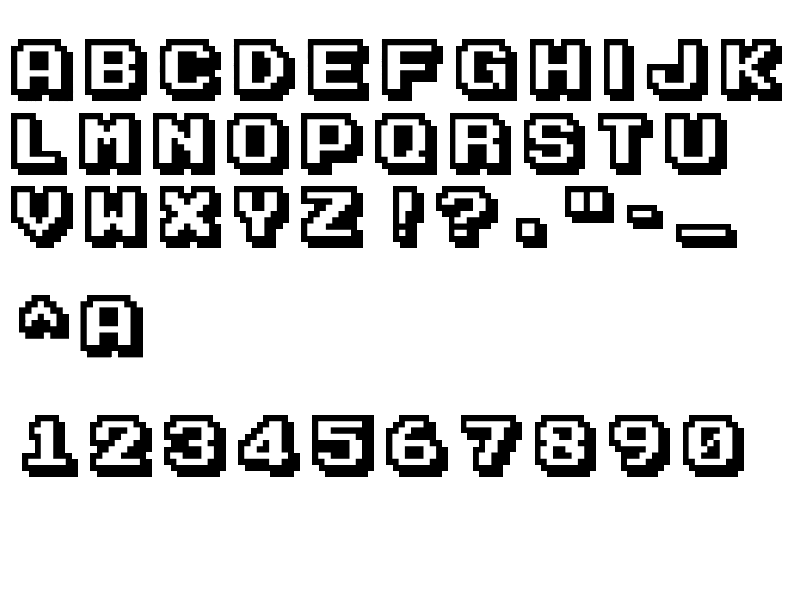
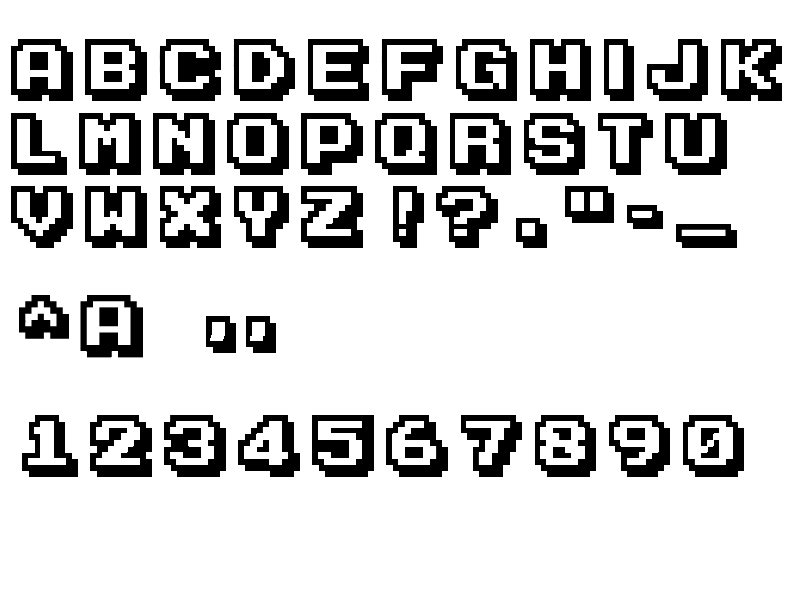
gnite

diff --git a/AShamanJourney/AShamanJourney/Game/HUD.cs b/AShamanJourney/AShamanJourney/Game/HUD.cs
@@ -32,11 +32,17 @@ namespace AShamanJourney
         {
             var fontSize = 0.4f;
             hp = new TextObject(fontSize, Color.IndianRed);
+            hp.Order = 10;
             xp = new TextObject(fontSize, Color.AliceBlue);
+            xp.Order = 10;
             lvl = new TextObject(fontSize, Color.ForestGreen);
+            lvl.Order = 10;
             timer = new TextObject(fontSize, Color.BurlyWood);
+            timer.Order = 10;
             hpNumber = new TextObject(fontSize, Color.White);
+            hpNumber.Order = 10;
             xpNumber = new TextObject(fontSize, Color.White);
+            xpNumber.Order = 10;
 
             Padding = 20;
             InnerPadding = Padding / 2;
@@ -51,8 +57,8 @@ namespace AShamanJourney
             hp.Y = Padding;
             hp.IgnoreCamera = true;
             hp.Text = "HP";
-            var hpMeasure = hp.Measure();
 
+            var hpMeasure = hp.Measure();
             Engine.SpawnObject("xp", xp);
             xp.X = hp.X;
             xp.Y = hp.Y + hpMeasure.Y + InnerPadding;
@@ -62,15 +68,23 @@ namespace AShamanJourney
 
             hpBar = new RectangleObject(150, (int)hpMeasure.Y)
             {
-                Fill = true
+                Fill = true, 
+                Order = 10
             };
             xpBar = new RectangleObject(150, (int)xpMeasure.Y)
             {
-                Fill = true
+                Fill = true,
+                Order = 10
             };
 
-            hpBarBorder = new RectangleObject(150, (int)hpMeasure.Y);
-            xpBarBorder = new RectangleObject(150, (int)xpMeasure.Y);
+            hpBarBorder = new RectangleObject(150, (int)hpMeasure.Y)
+            {
+                Order = 10
+            };
+            xpBarBorder = new RectangleObject(150, (int)xpMeasure.Y)
+            {
+                Order = 10
+            };
 
             Engine.SpawnObject("lvl", lvl);
             lvl.X = xp.X;
@@ -101,42 +115,42 @@ namespace AShamanJourney
             hpBarBorder.Y = hp.Y;
             hpBarBorder.Color = Color.Black;
             hpBarBorder.IgnoreCamera = true;
-            var hpNumberMeasure = hp.Measure();
 
+            // TODO: FIX DOESN'T SPAWN
             Engine.SpawnObject("hpNumber", hpNumber);
-            hpNumber.X = hpBarBorder.X + (hpBarBorder.Width / 2) - (hpNumberMeasure.X / 2);
-            hpNumber.Y = hpBarBorder.Y + (hpBarBorder.Height / 2) - (hpNumberMeasure.Y / 2);
             hpNumber.IgnoreCamera = true;
-            hpNumber.Text = "0/0";
 
             Engine.SpawnObject("xpBarBorder", xpBarBorder);
             xpBarBorder.X = xp.X + xpMeasure.X + InnerPadding;
             xpBarBorder.Y = xp.Y;
             xpBarBorder.Color = Color.Black;
             xpBarBorder.IgnoreCamera = true;
-            var xpNumberMeasure = xp.Measure();
 
             Engine.SpawnObject("xpNumber", xpNumber);
-            xpNumber.X = xpBarBorder.X + (xpBarBorder.Width / 2) - (xpNumberMeasure.X / 2);
-            xpNumber.Y = xpBarBorder.Y + (xpBarBorder.Height / 2) - (xpNumberMeasure.Y / 2);
             xpNumber.IgnoreCamera = true;
-            xpNumber.Text = "0/0";
-
         }
 
-        public void UpdateHP(Player player)
+        public void UpdateHp(Player player)
         {
             hpBar.Scale = new Vector2(player.Stats.Hp / player.Stats.MaxHp, 1f);
+            hpNumber.Text = $"{player.Stats.Hp} - {player.Stats.MaxHp}";
+            var hpNumberMeasure = hpNumber.Measure();
+            hpNumber.X = hpBarBorder.X + (hpBarBorder.Width / 2) - (hpNumberMeasure.X / 2);
+            hpNumber.Y = hpBarBorder.Y + (hpBarBorder.Height / 2) - (hpNumberMeasure.Y / 2);
         }
 
-        public void UpdateXP(Player player)
+        public void UpdateXp(Player player)
         {
             xpBar.Scale = new Vector2(player.Stats.Xp / player.Stats.XpForNextLevel, 1f);
+            xpNumber.Text = $"{player.Stats.Xp}-{player.Stats.XpForNextLevel}";
+            var xpNumberMeasure = xp.Measure();
+            xpNumber.X = xpBarBorder.X + (xpBarBorder.Width / 2) - (xpNumberMeasure.X / 2);
+            xpNumber.Y = xpBarBorder.Y + (xpBarBorder.Height / 2) - (xpNumberMeasure.Y / 2);
             lvl.Text = $"Level {player.Stats.Level}";
         }
         public void UpdateTimer()
         {
-            timer.Text = $"Timer {GameManager.LocalTimer} / {GameManager.GlobalTimer}";
+            timer.Text = $"Timer {(int) GameManager.LocalTimer} - {(int)GameManager.GlobalTimer}";
         }
     }
 }

diff --git a/AShamanJourney/AShamanJourney/Utils/World.cs b/AShamanJourney/AShamanJourney/Utils/World.cs
@@ -50,22 +50,23 @@ namespace AShamanJourney
 
             // details
             objectsSpawnRate.Add(new Dictionary<GameObject, float>());
-            var tree0Asset = (SpriteAsset)Engine.GetAsset("tree0");
-            var tree0 = new SpriteObject(tree0Asset.Width / 2, tree0Asset.Height / 2);
-            tree0.CurrentSprite = tree0Asset;
-            tree0.Order = 2;
-            objectsSpawnRate[0][tree0] = 1f;
+            //var tree0AssetTop = (SpriteAsset)Engine.GetAsset("tree0_top");
+            //var tree0AssetBottom = (SpriteAsset)Engine.GetAsset("tree0_bottom");
+            //var tree0 = new TruncatedObject("tree0", tree0AssetBottom, tree0AssetTop);
+            //objectsSpawnRate[0][tree0] = 1f;
 
             var swamp0Asset = (SpriteAsset)Engine.GetAsset("swamp0");
             var swamp0 = new SpriteObject(swamp0Asset.Width, swamp0Asset.Height);
+            swamp0.Name = "swamp0";
             swamp0.CurrentSprite = swamp0Asset;
             swamp0.Order = 2;
-            objectsSpawnRate[0][swamp0] = 0.33f;
+            objectsSpawnRate[0][swamp0] = 0.2f;
 
             // backgrounds
             objectsSpawnRate.Add(new Dictionary<GameObject, float>());
             var background0Asset = (SpriteAsset)Engine.GetAsset("background0");
             var background0 = new SpriteObject(background0Asset.Width, background0Asset.Height);
+            background0.Name = "background0";
             background0.CurrentSprite = background0Asset;
             background0.Order = 0;
             objectsSpawnRate[1][background0] = 1f;
@@ -74,15 +75,16 @@ namespace AShamanJourney
             objectsSpawnRate.Add(new Dictionary<GameObject, float>());
             var bearAsset = (SpriteAsset)Engine.GetAsset("bear");
             var bear = new SpriteObject(bearAsset.Width, bearAsset.Height);
+            bear.Name = "bear0";
             bear.CurrentSprite = bearAsset;
             bear.Order = 6;
             objectsSpawnRate[2][bear] = 1f;
 
             var count = 0;
-            foreach (var list in objectsSpawnRate)
+            foreach (var dict in objectsSpawnRate)
             {
                 rndRanges.Add(0);
-                foreach (var pair in list)
+                foreach (var pair in dict)
                 {
                     rndRanges[count] += pair.Value;
                 }

diff --git a/AShamanJourney/AShamanJourney/Utils/TruncatedObject.cs b/AShamanJourney/AShamanJourney/Utils/TruncatedObject.cs
@@ -1,0 +1,46 @@
+using Aiv.Engine;
+
+namespace AShamanJourney
+{
+    public class TruncatedObject : SpriteObject
+    {
+        private SpriteObject topSprite;
+        private SpriteObject bottomSprite;
+        
+        public TruncatedObject(string name, SpriteAsset bottomSpriteAsset, SpriteAsset topSpriteAsset) : base(bottomSpriteAsset.Width, bottomSpriteAsset.Height)
+        {
+            topSprite = new SpriteObject(topSpriteAsset.Width, topSpriteAsset.Height);
+            topSprite.CurrentSprite = topSpriteAsset;
+            bottomSprite = new SpriteObject(bottomSpriteAsset.Width, bottomSpriteAsset.Height);
+            bottomSprite.CurrentSprite = bottomSpriteAsset;
+            Name = name;
+        }
+
+        // Add others override if needed
+        public override float X
+        {
+            get { return topSprite.X; }
+            set
+            {
+                topSprite.X = value;
+                bottomSprite.X = value;
+            }
+        }
+        public override float Y
+        {
+            get { return topSprite.Y; }
+            set
+            {
+                topSprite.Y = value;
+                bottomSprite.Y = value + topSprite.Height;
+            }
+        }
+
+        public override void Start()
+        {
+            base.Start();
+            Engine.SpawnObject($"{Name}_topSprite", topSprite);
+            Engine.SpawnObject($"{Name}_bottomSprite", bottomSprite);
+        }
+    }
+}

diff --git a/AShamanJourney/AShamanJourney/Game/GameManager.cs b/AShamanJourney/AShamanJourney/Game/GameManager.cs
@@ -71,6 +71,7 @@ namespace AShamanJourney
                     //{'/', Tuple.Create(new Vector2(238f, 93f), new Vector2(34f, 31f))},
                     //{':', Tuple.Create(new Vector2(296f, 93f), new Vector2(13f, 31f))},
                     {'.', Tuple.Create(new Vector2(515f, 186f), new Vector2(33f, 63f))},
+                    {',', Tuple.Create(new Vector2(206f, 290f), new Vector2(30f, 63f))},
                     //{',', Tuple.Create(new Vector2(272f, 93f), new Vector2(13f, 31f))},
                     {'"', Tuple.Create(new Vector2(564f, 186f), new Vector2(51f, 63f))},
                     //{'\'', Tuple.Create(new Vector2(285f, 93f), new Vector2(13f, 31f))}
@@ -91,7 +92,9 @@ namespace AShamanJourney
             engine.LoadAsset("player", new SpriteAsset("player.png"));
             engine.LoadAsset("background0", new SpriteAsset("background0.png"));
             engine.LoadAsset("swamp0", new SpriteAsset("swamp0.png"));
-            engine.LoadAsset("tree0", new SpriteAsset("tree0.png"));
+            var tree = new SpriteAsset("tree0.png");
+            engine.LoadAsset("tree0_top", new SpriteAsset("tree0.png", 0, 0, tree.Width / 2, tree.Height / 2));
+            engine.LoadAsset("tree0_bottom", new SpriteAsset("tree0.png", tree.Width / 2, tree.Height / 2, tree.Width, tree.Height));
             //engine.LoadAsset("backgroundshadow0", new SpriteAsset("background_shadow.png"));
         }
 

diff --git a/AShamanJourney/AShamanJourney/Character/Player.cs b/AShamanJourney/AShamanJourney/Character/Player.cs
@@ -33,8 +33,11 @@ namespace AShamanJourney
             LoadAnimations();
 
             var hud = (Hud) Engine.Objects["hud"];
-            OnHpChanged += sender => hud.UpdateHP((Player) sender);
-            OnXpChanged += (sender, delta) => hud.UpdateXP((Player) sender);
+            OnHpChanged += sender =>
+            {
+                hud.UpdateHp((Player) sender);
+            };
+            OnXpChanged += (sender, delta) => hud.UpdateXp((Player) sender);
         }
 
         private void LoadAnimations()

diff --git a/AShamanJourney/AShamanJourney/Character/Stats.cs b/AShamanJourney/AShamanJourney/Character/Stats.cs
@@ -100,7 +100,11 @@ namespace AShamanJourney
         public long XpForNextLevel
         {
             get { return xpForNextLevel; }
-            set { xpForNextLevel = value; }
+            set
+            {
+                xpForNextLevel = value;
+                Owner.XpChanged(0);
+            }
         }
     }
 }

diff --git a/AShamanJourney/AShamanJourney/Game/Game.cs b/AShamanJourney/AShamanJourney/Game/Game.cs
@@ -20,7 +20,7 @@ namespace AShamanJourney
         {
             GameManager.GlobalTimer += DeltaTime;
             GameManager.LocalTimer += DeltaTime;
-            //((Hud)Engine.Objects["hud"]).UpdateTimer();
+            ((Hud)Engine.Objects["hud"]).UpdateTimer();
         }
 
 
